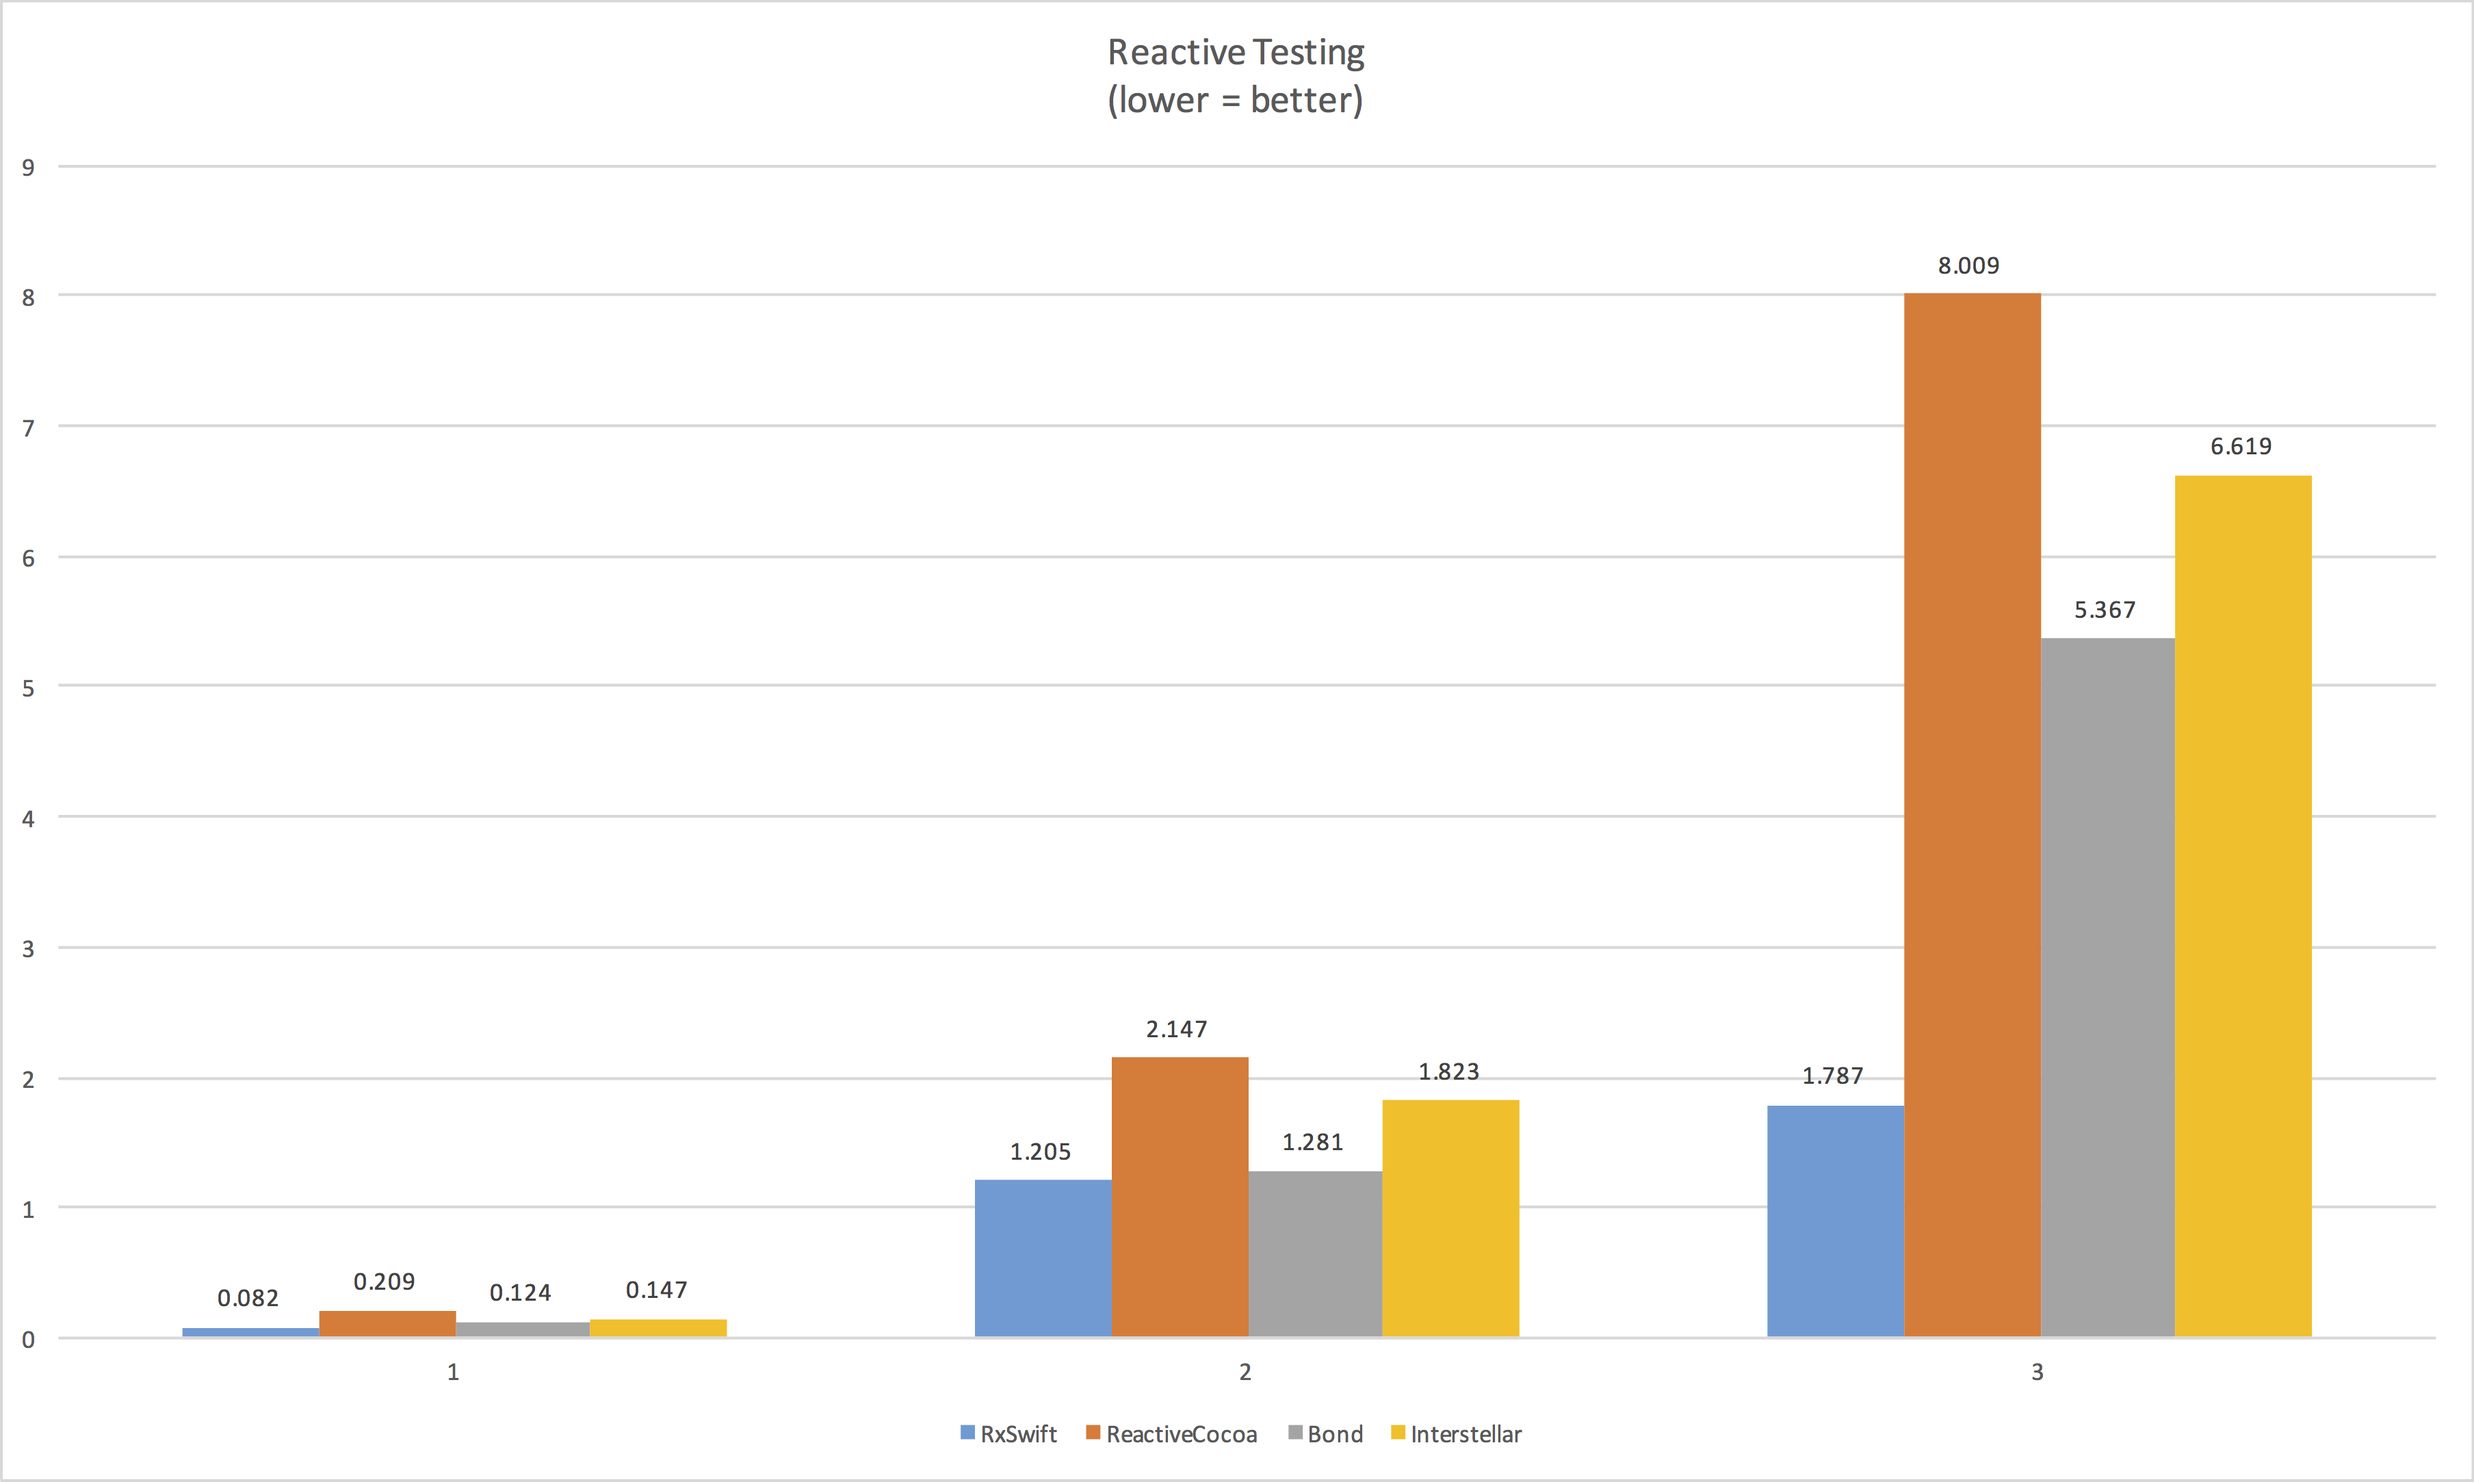
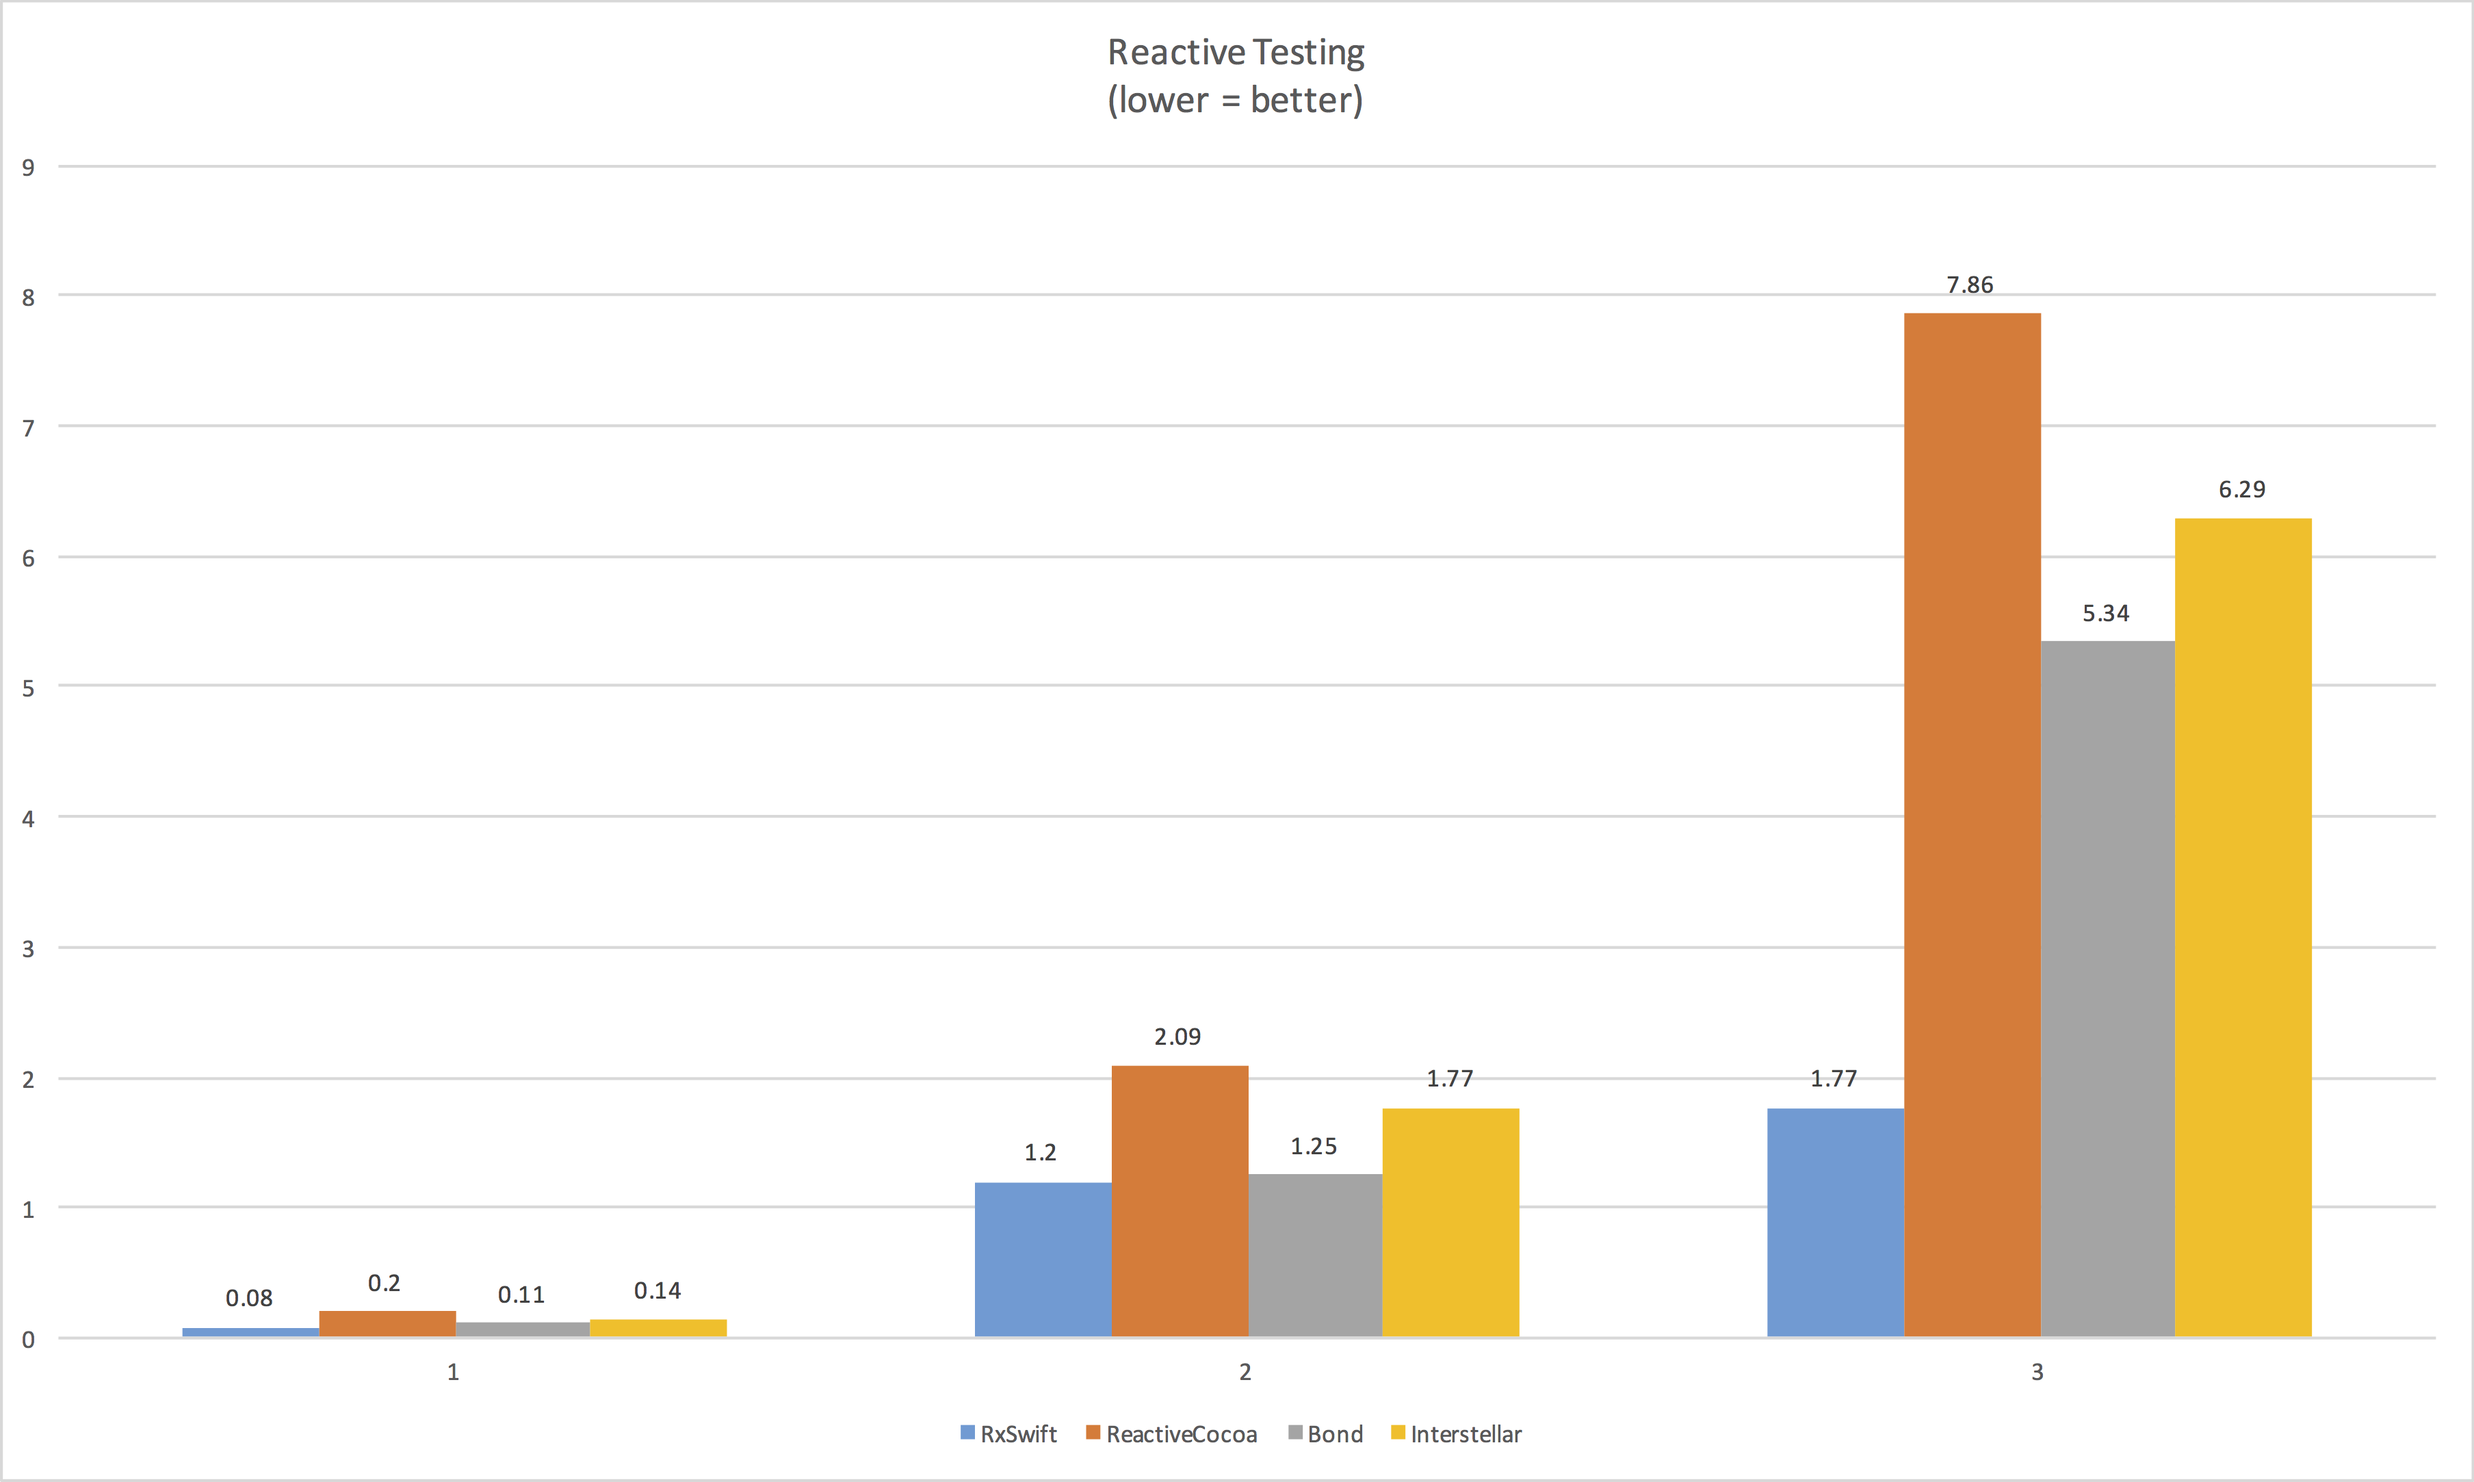
Re-ran tests and recorded the minimum times...
All noise is additive, i.e., can't be negative. So take the minimum.
Andrei Alexandrescu @incomputable
https://youtu.be/vrfYLlR8X8k?t=22m49s
Thanks for the tip Krunoslav! @KrunoslavZaher

diff --git a/ReactiveTestingTests/ReactiveTestingTests.swift b/ReactiveTestingTests/ReactiveTestingTests.swift
@@ -27,7 +27,7 @@ class ReactiveTestingTests: XCTestCase {
   
   ////////////////////////////////////////////
   
-  // 0.082s (7% stdev)
+  // 0.080s (7% stdev)
   func test_measure_RxSwift_1() {
     measureBlock {
       var counter = 0
@@ -40,7 +40,7 @@ class ReactiveTestingTests: XCTestCase {
     }
   }
   
-  /// 0.209s (5% stdev)
+  /// 0.200s (3% stdev)
   func test_measure_ReactiveCocoa_1() {
     measureBlock {
       var counter = 0
@@ -53,7 +53,7 @@ class ReactiveTestingTests: XCTestCase {
     }
   }
   
-  /// 0.124s (6% stdev)
+  /// 0.110s (9% stdev)
   func test_measure_Bond_1() {
     measureBlock {
       var counter = 0
@@ -66,7 +66,7 @@ class ReactiveTestingTests: XCTestCase {
     }
   }
   
-  // 0.147s (4% stdev)
+  // 0.140s (8% stdev)
   func test_measure_Interstellar_1() {
     measureBlock {
       var counter = 0
@@ -81,7 +81,7 @@ class ReactiveTestingTests: XCTestCase {
   
   ////////////////////////////////////////////
   
-  // 1.205s (9% stdev)
+  // 1.200s (3% stdev)
   func test_measure_RxSwift_2() {
     measureBlock {
       var counter = 0
@@ -97,7 +97,7 @@ class ReactiveTestingTests: XCTestCase {
     }
   }
   
-  // 2.147s (5% stdev)
+  // 2.090s (2% stdev)
   func test_measure_ReactiveCocoa_2() {
     measureBlock {
       var counter = 0
@@ -113,7 +113,7 @@ class ReactiveTestingTests: XCTestCase {
     }
   }
   
-  // 1.281s (4% stdev)
+  // 1.250s (3% stdev)
   func test_measure_Bond_2() {
     measureBlock {
       var counter = 0
@@ -129,7 +129,7 @@ class ReactiveTestingTests: XCTestCase {
     }
   }
   
-  // 1.823s (3% stdev)
+  // 1.770s (1% stdev)
   func test_measure_Interstellar_2() {
     measureBlock {
       var counter = 0
@@ -147,7 +147,7 @@ class ReactiveTestingTests: XCTestCase {
   
   ////////////////////////////////////////////
   
-  // 1.787s (6% stdev)
+  // 1.770s (2% stdev)
   func test_measure_RxSwift_3() {
     measureBlock {
       let observable = Variable(0)
@@ -162,7 +162,7 @@ class ReactiveTestingTests: XCTestCase {
     }
   }
   
-  // 8.009s (2% stdev)
+  // 7.860s (4% stdev)
   func test_measure_ReactiveCocoa_3() {
     measureBlock {
       let (signal, observer) = ReactiveCocoa.Signal<Int, NoError>.pipe()
@@ -177,7 +177,7 @@ class ReactiveTestingTests: XCTestCase {
     }
   }
   
-  // 5.367s (3% stdev)
+  // 5.340s (2% stdev)
   func test_measure_Bond_3() {
     measureBlock {
       let observable = Observable(0)
@@ -192,7 +192,7 @@ class ReactiveTestingTests: XCTestCase {
     }
   }
   
-  // 6.619s (2% stdev)
+  // 6.290s (2% stdev)
   func test_measure_Interstellar_3() {
     measureBlock {
       let signal = Interstellar.Signal<Int>()
